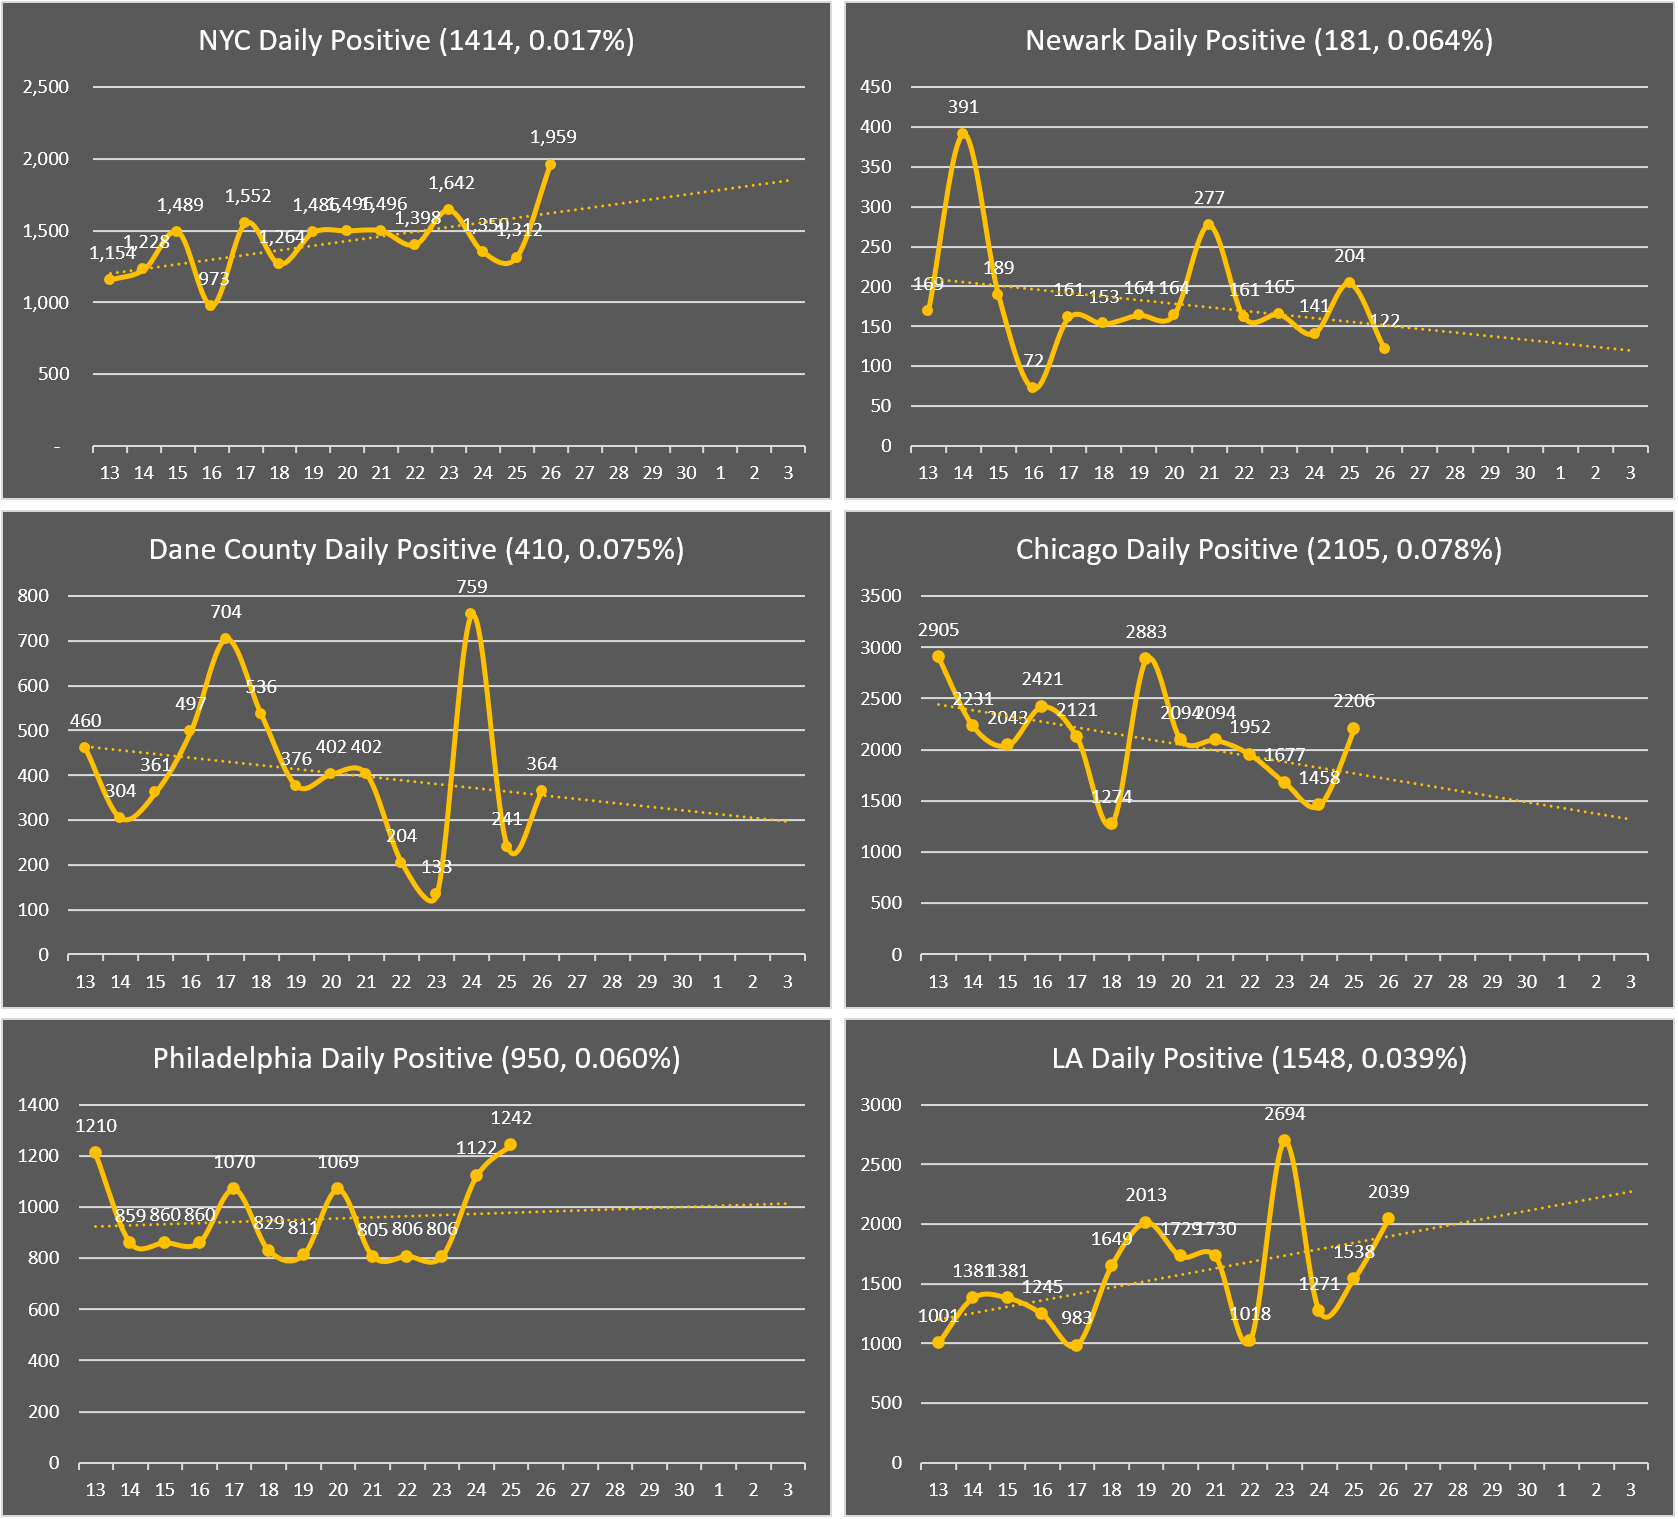
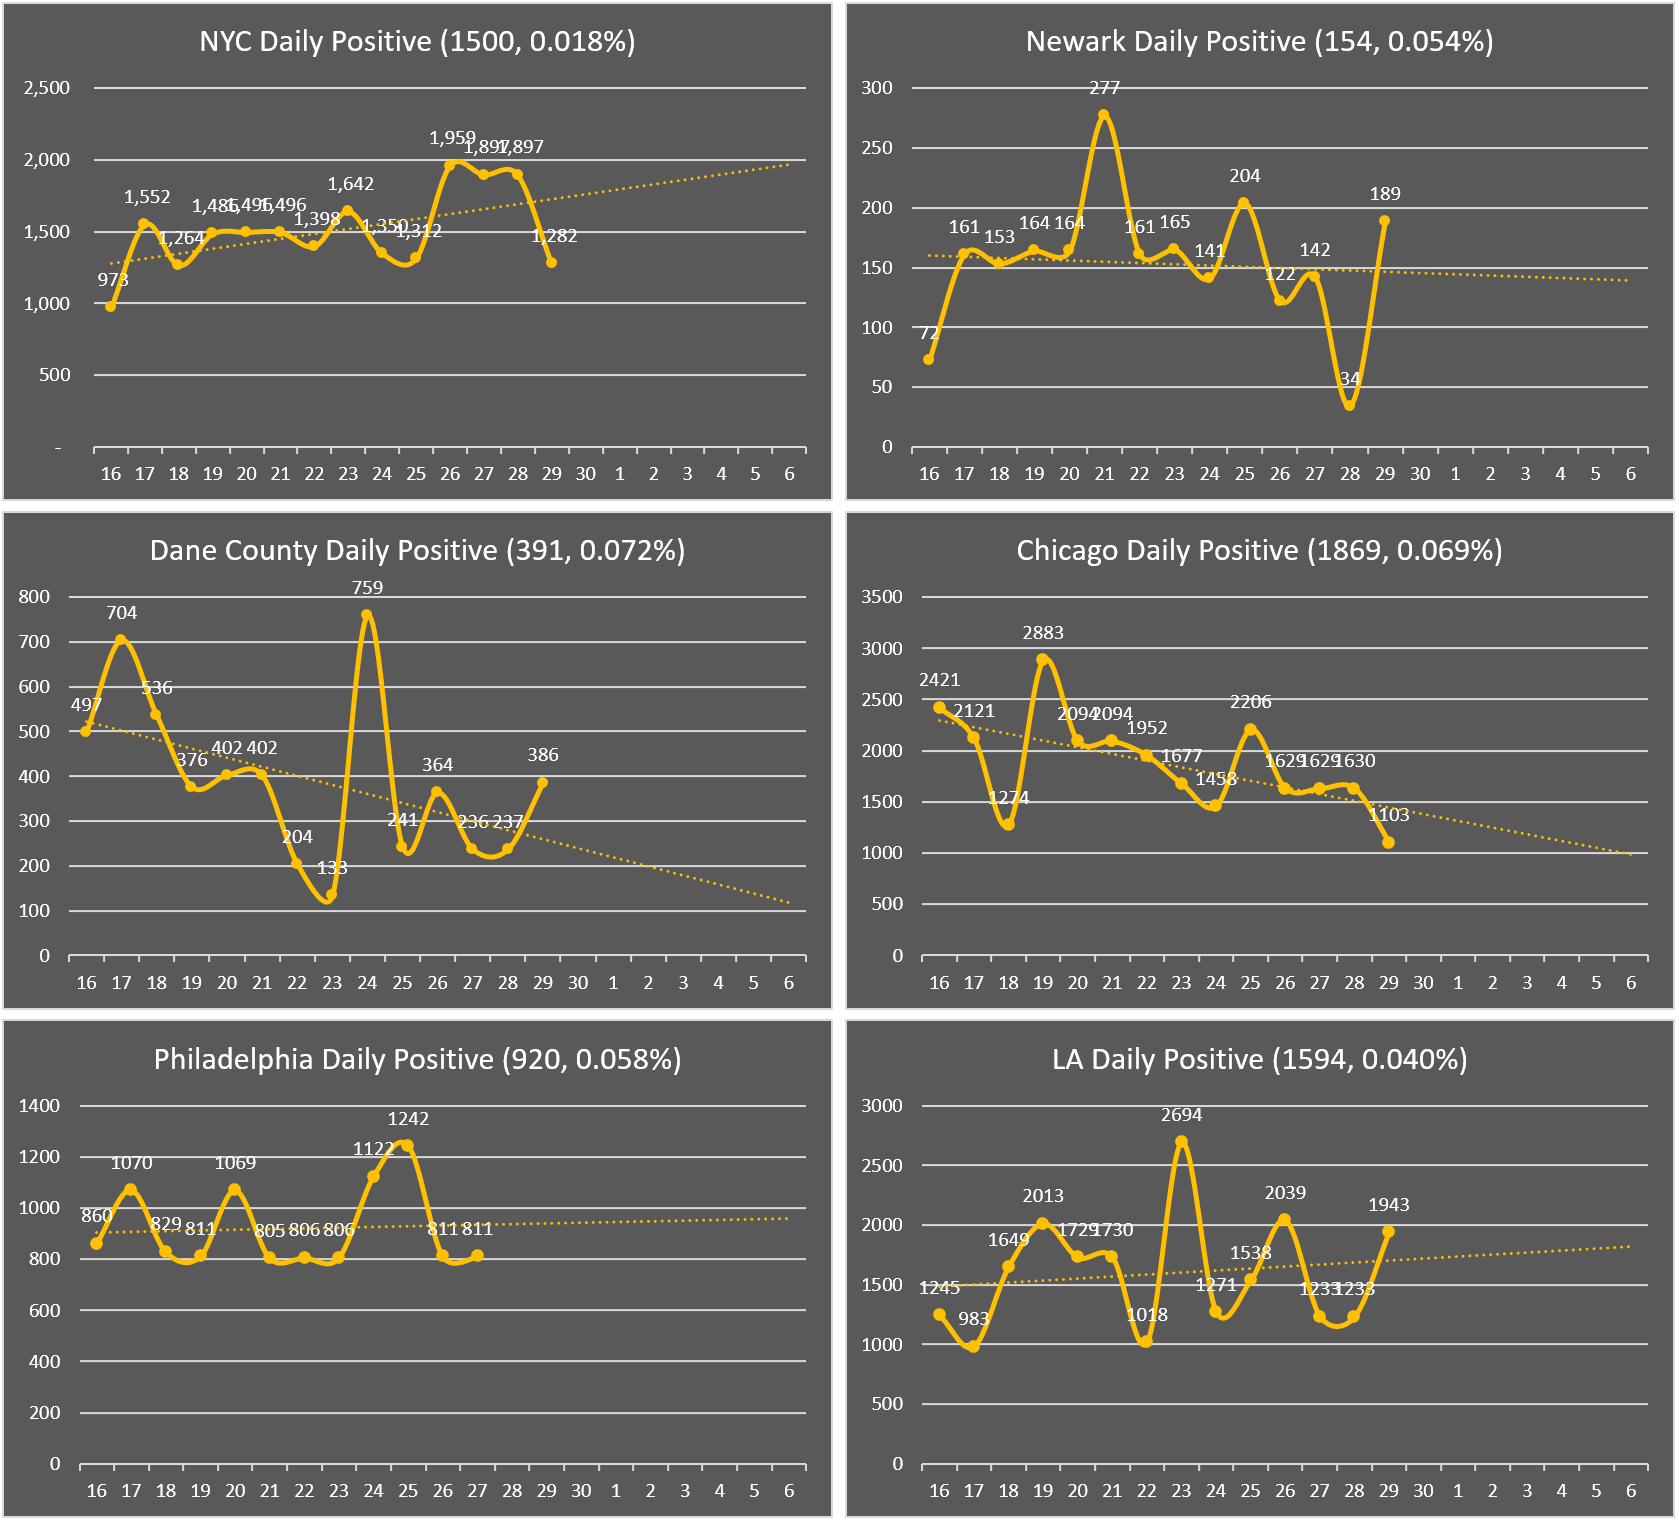
update 11/29 status

diff --git a/index.html b/index.html
@@ -19,7 +19,7 @@
 
 <body class="container-fluid">
 	<h1> CoronaV for Friends</h1>
-	<h2> Data updated at Nov 27 2020 EST 01:25</h2>
+	<h2> Data updated at Nov 30 2020 EST 09:10</h2>
 	<hr>
 	<main>
 		<div class="row">
